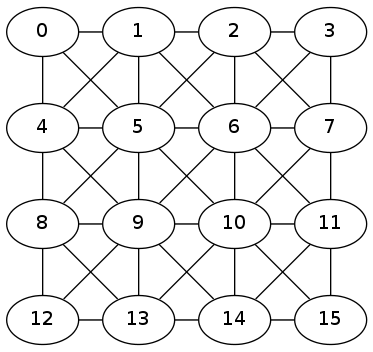
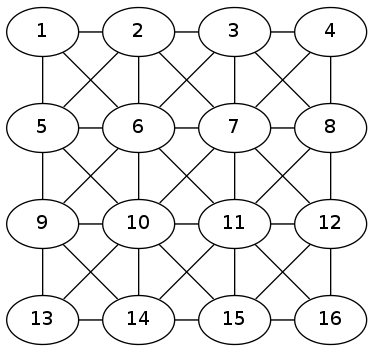
adapted the graph to the Skiena's conventions (the first node in the graph is not 0 but 1)

diff --git a/graph.cpp b/graph.cpp
@@ -130,3 +130,82 @@ void print_graph(graph *g)
 	}
 }
 
+class Couple
+{
+public:
+	int a,b;
+	Couple(int aa,int bb):a(aa),b(bb){}
+	bool operator==(const Couple& rhs ) const
+	{
+		return (a==rhs.a && b==rhs.b) || (a==rhs.b && b==rhs.a);
+	}
+};
+
+#include <vector>
+#include <algorithm>
+
+void print_graph_dot(graph *g)
+{
+	int i;				/* counter */
+	edgenode *p;			/* temporary pointer */
+
+char preamble[]=R"(
+graph
+{
+13 [pos = "0,0!"]
+
+14 [pos = "1,0!"]
+
+15 [pos = "2,0!"]
+
+16 [pos = "3,0!"]
+
+9 [pos = "0,1!"]
+
+10 [pos = "1,1!"]
+
+11 [pos = "2,1!"]
+
+12 [pos = "3,1!"]
+
+5 [pos = "0,2!"]
+
+6 [pos = "1,2!"]
+
+7 [pos = "2,2!"]
+
+8 [pos = "3,2!"]
+
+1 [pos = "0,3!"]
+
+2 [pos = "1,3!"]
+
+3 [pos = "2,3!"]
+
+4 [pos = "3,3!"])";
+
+printf("%s\n\n", preamble );
+
+
+std::vector<Couple> couples;
+
+	for (i=1; i<=g->nvertices; i++) {
+		p = g->edges[i];
+		while (p != NULL) {
+			//printf("%d -- %d\n",i,p->y);
+			Couple c(i,p->y);
+			if ( std::find(couples.begin(),couples.end(),c) == couples.end() ) {
+				couples.push_back(c);
+			}
+			p = p->next;
+		}
+		//printf("\n");
+	}
+
+	for ( size_t i = 0; i < couples.size(); i++ ) {
+		printf("%d -- %d\n",couples[i].a,couples[i].b);
+	}
+
+	printf("}\n");
+}
+

diff --git a/paths.cpp b/paths.cpp
@@ -101,8 +101,9 @@ main()
 	int i;				/* counter */
 
         read_graph(&g,false);
-        //print_graph(&g);
+        print_graph_dot(&g);
 
+/*
     for ( int c2 = 1; c2 <= 15; c2++ ) {
     	for ( int c1 = 0; c1 <= c2-1; c1++ ) {
     		//std::cout << c2 << " " << c1 << "\n";
@@ -111,5 +112,6 @@ main()
     		backtrack(a,0,c1);
     	}
     }
+    */
 }
 

diff --git a/graph.h b/graph.h
@@ -51,5 +51,6 @@ typedef struct {
 
 void read_graph(graph *g, bool directed);
 void print_graph(graph *g);
+void print_graph_dot(graph *g);
 
 
